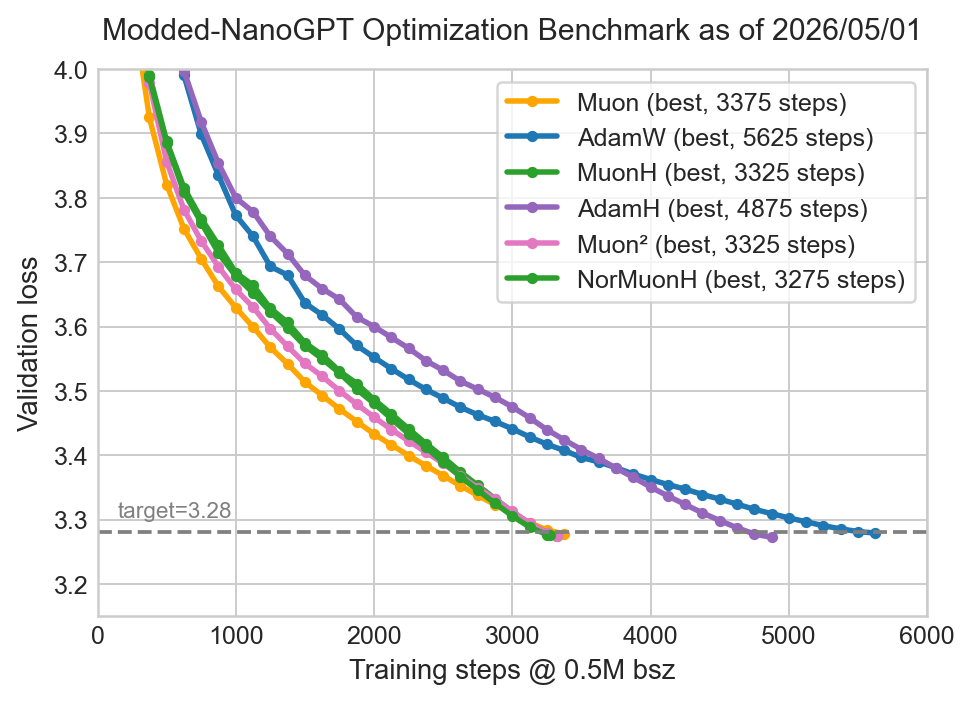
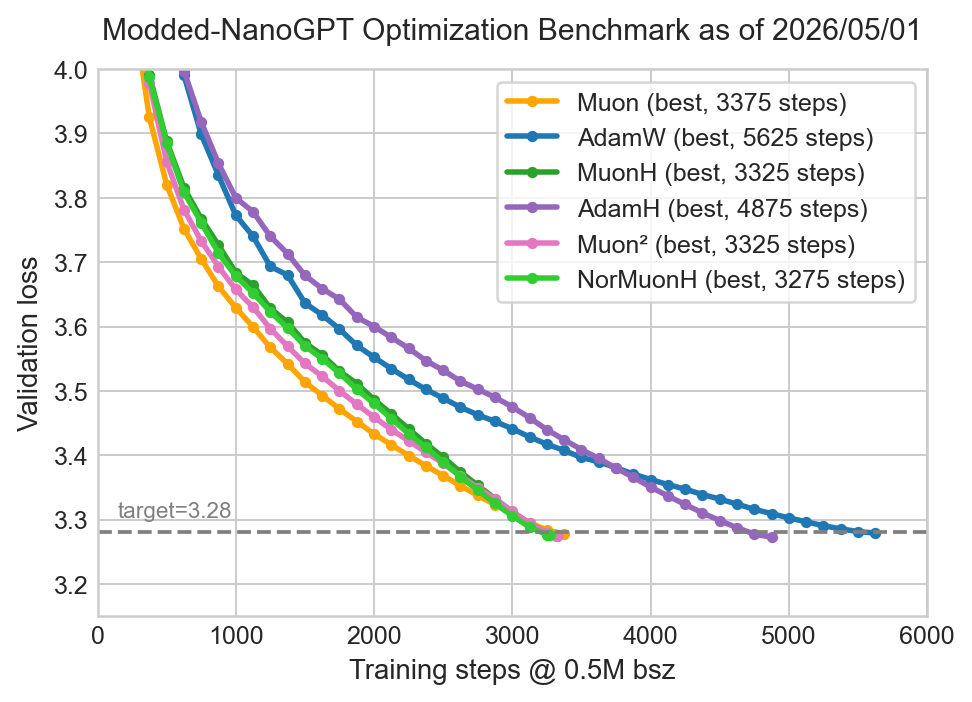
.

diff --git a/records/track_3_optimization/make_figure.py b/records/track_3_optimization/make_figure.py
@@ -9,7 +9,7 @@ runs = {
     'MuonH (best, 3325 steps)': ('20260430_muonh/9319c798-6643-464a-b407-b05468e468f5', '#2ca02c'),
     'AdamH (best, 4875 steps)': ('20260430_adamh/7533dd87-107f-4a4f-8229-acbec0fb00ac', '#9467bd'),
     'Muon² (best, 3325 steps)': ('20260501_muonsq/bb903816-ea27-4f5f-8028-c963d38c6a7f', '#e377c2'),
-    'NorMuonH (best, 3275 steps)': ('20260430_normuonh/f45b5dcf-16bb-4e83-b5c7-4ef4981f0e9f', '#2ca02c'),
+    'NorMuonH (best, 3275 steps)': ('20260430_normuonh/f45b5dcf-16bb-4e83-b5c7-4ef4981f0e9f', '#32CD32'),
 }
 pattern = re.compile(r'step:(\d+)/(\d+)\s+val_loss:([0-9.]+)')
 out = 'figure.png'
